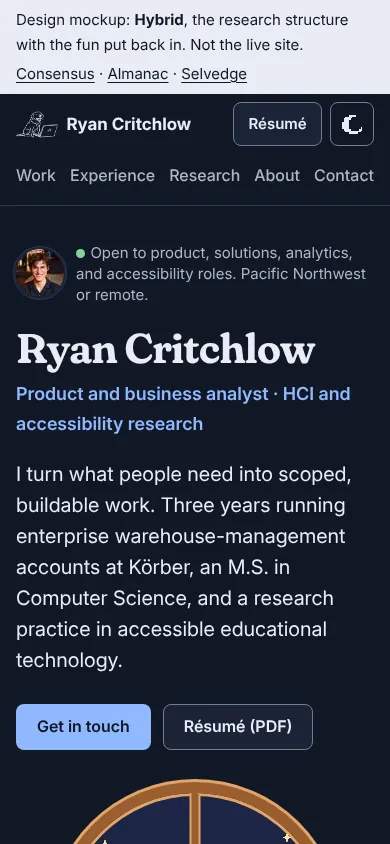
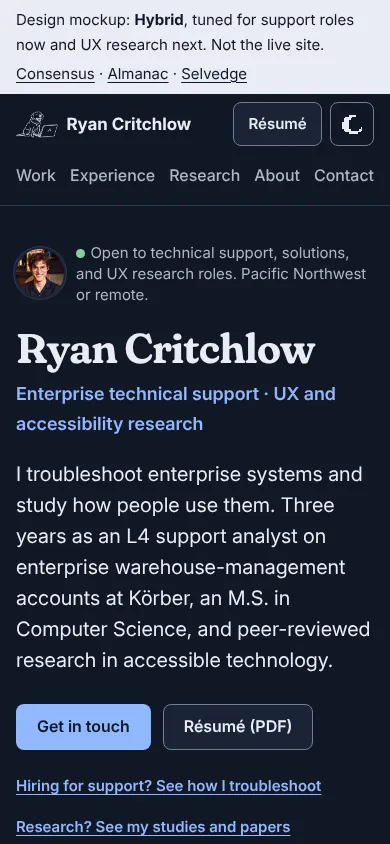
Tune Hybrid for a support role now and UX research next
The owner is aiming for a technical support engineer role at
Salesforce, then UX research, with a PhD as the fallback.

- Hero leads with enterprise technical support and links two paths:
  support work and research
- Proof boxes swap the onboarding stat for two on-site go-lives
- First case study: Körber L4 support (fault isolation across
  systems, escalation with evidence, deadlocks resolved)
- Research section gains a research-interests line and the methods used
- Footer carries a one-line accessibility statement
- README explains the tuning and the steps outside the site
  (Salesforce Administrator certification, the accessibility bridge,
  You and I case study, academic CV)

Every check still passes.

Claude-Session: https://claude.ai/code/session_017wxvTpqv5zxqmQFdE1sULf

diff --git a/docs/design-review/mockups/hybrid.html b/docs/design-review/mockups/hybrid.html
@@ -581,6 +581,18 @@
 				font-size: 1.25rem;
 				line-height: 1.55;
 			}
+			.paths {
+				display: flex;
+				flex-wrap: wrap;
+				gap: 0.4rem 1.5rem;
+				margin-top: 1.25rem;
+				font-size: var(--step-small);
+				font-weight: 600;
+			}
+			.paths a {
+				display: inline-block;
+				padding-block: 0.3rem;
+			}
 			.cta-row {
 				display: flex;
 				flex-wrap: wrap;
@@ -1172,6 +1184,13 @@
 				color: var(--ink);
 				font-weight: 600;
 			}
+			.methods {
+				margin-bottom: 1.75rem;
+			}
+			.methods li {
+				background: var(--card);
+				border: 1px solid var(--border);
+			}
 			.ids {
 				display: flex;
 				flex-wrap: wrap;
@@ -1383,6 +1402,11 @@
 					d="M1 0h10v1h-10zM0 1h11v1h-11zM1 2h10v1h-10zM5 3h3v1h-3zM5 4h3v1h-3zM5 5h3v1h-3zM5 6h3v1h-3zM5 7h3v1h-3zM5 8h3v1h-3zM4 9h5v1h-5z"
 				/>
 			</symbol>
+			<symbol id="i-magnifier" viewBox="0 0 12 12">
+				<path
+					d="M2 0h4v1h-4zM1 1h1v1h-1zM6 1h1v1h-1zM0 2h1v1h-1zM3 2h2v1h-2zM7 2h1v1h-1zM0 3h1v1h-1zM2 3h1v1h-1zM7 3h1v1h-1zM0 4h1v1h-1zM7 4h1v1h-1zM0 5h1v1h-1zM7 5h1v1h-1zM1 6h1v1h-1zM6 6h1v1h-1zM2 7h6v1h-6zM7 8h3v1h-3zM8 9h3v1h-3zM9 10h3v1h-3zM10 11h2v1h-2z"
+				/>
+			</symbol>
 			<symbol id="i-sun" viewBox="0 0 12 12">
 				<path
 					d="M5 0h2v1h-2zM1 1h1v1h-1zM5 1h2v1h-2zM10 1h1v1h-1zM2 2h1v1h-1zM9 2h1v1h-1zM4 3h4v1h-4zM3 4h6v1h-6zM0 5h2v1h-2zM3 5h6v1h-6zM10 5h2v1h-2zM0 6h2v1h-2zM3 6h6v1h-6zM10 6h2v1h-2zM3 7h6v1h-6zM4 8h4v1h-4zM2 9h1v1h-1zM9 9h1v1h-1zM1 10h1v1h-1zM5 10h2v1h-2zM10 10h1v1h-1zM5 11h2v1h-2z"
@@ -1415,7 +1439,7 @@
 		<aside class="mock-banner" aria-label="About this mockup">
 			<div class="wrap">
 				<p>
-					Design mockup: <strong>Hybrid</strong>, the research structure with the fun put back in.
+					Design mockup: <strong>Hybrid</strong>, tuned for support roles now and UX research next.
 					Not the live site.
 				</p>
 				<p>
@@ -1474,16 +1498,16 @@
 								fetchpriority="high"
 							/>
 							<span
-								><span class="dot" aria-hidden="true"></span>Open to product, solutions, analytics,
-								and accessibility roles. Pacific Northwest or remote.</span
+								><span class="dot" aria-hidden="true"></span>Open to technical support, solutions,
+								and UX research roles. Pacific Northwest or remote.</span
 							>
 						</p>
 						<h1 id="hero-title">Ryan Critchlow</h1>
-						<p class="role">Product and business analyst · HCI and accessibility research</p>
+						<p class="role">Enterprise technical support · UX and accessibility research</p>
 						<p class="lede measure">
-							I turn what people need into scoped, buildable work. Three years running enterprise
-							warehouse-management accounts at Körber, an M.S. in Computer Science, and a research
-							practice in accessible educational technology.
+							I troubleshoot enterprise systems and study how people use them. Three years as an L4
+							support analyst on enterprise warehouse-management accounts at Körber, an M.S. in
+							Computer Science, and peer-reviewed research in accessible technology.
 						</p>
 						<div class="cta-row">
 							<a class="btn btn-primary" href="#contact">Get in touch</a>
@@ -1491,6 +1515,10 @@
 								>Résumé (PDF)</a
 							>
 						</div>
+						<p class="paths">
+							<a href="#support">Hiring for support? See how I troubleshoot</a>
+							<a href="#research">Research? See my studies and papers</a>
+						</p>
 					</div>
 
 					<div class="window-wrap" id="georgia-spot">
@@ -1580,8 +1608,8 @@
 							</li>
 							<li class="box" style="--i: 2">
 								<div class="ship-label">
-									<span class="num">50%</span>
-									<span class="what">shorter new-hire ramp from a 30/60/90 framework I co-led</span>
+									<span class="num">2</span>
+									<span class="what">go-lives where I was the on-site technical lead</span>
 									<span class="barcode" aria-hidden="true"></span>
 								</div>
 							</li>
@@ -1608,39 +1636,46 @@
 						<p>Each project: the problem, what I did, and what came out of it.</p>
 					</div>
 					<ul class="cases">
-						<li class="case">
+						<li class="case" id="support">
 							<div class="case-top">
 								<span class="item"
-									><svg class="pix" viewBox="0 0 16 9" aria-hidden="true">
-										<use href="#i-controller" /></svg
+									><svg class="pix" viewBox="0 0 12 12" aria-hidden="true">
+										<use href="#i-magnifier" /></svg
 								></span>
-								<h3>You and I</h3>
+								<h3>Enterprise WMS support at Körber</h3>
 							</div>
 							<p class="summary">
-								A serious game for practicing pronouns, built with autistic children and their
-								families.
+								L4 support for four enterprise warehouse-management accounts, from cloud outages to
+								SQL deadlocks.
 							</p>
 							<dl class="facts">
 								<div>
 									<dt>Problem</dt>
-									<dd>Autistic gestalt language learners need a way to practice pronouns.</dd>
+									<dd>
+										A fault could start in the WMS, the customer's order system, Dynamics 365, or
+										their network.
+									</dd>
 								</div>
 								<div>
 									<dt>Role</dt>
-									<dd>Owned it end to end: research plan, Unity build, art, and evaluation.</dd>
+									<dd>
+										Primary technical contact. Isolated faults with WMS data and escalated to the
+										right team with the evidence.
+									</dd>
 								</div>
 								<div>
 									<dt>Result</dt>
 									<dd>
-										In-home participatory evaluation with four families; paper targeting IDC 2027.
+										Deadlocks resolved on high-traffic systems, and 46% more stable releases than
+										the department average.
 									</dd>
 								</div>
 							</dl>
 							<ul class="tags" aria-label="Tools">
-								<li>Unity</li>
-								<li>C#</li>
-								<li>WebGL</li>
-								<li>2025–2026</li>
+								<li>T-SQL</li>
+								<li>SQL Server Agent</li>
+								<li>Dynamics 365</li>
+								<li>2020–2023</li>
 							</ul>
 						</li>
 						<li class="case">
@@ -1685,6 +1720,41 @@
 						<li class="case">
 							<div class="case-top">
 								<span class="item"
+									><svg class="pix" viewBox="0 0 16 9" aria-hidden="true">
+										<use href="#i-controller" /></svg
+								></span>
+								<h3>You and I</h3>
+							</div>
+							<p class="summary">
+								A serious game for practicing pronouns, built with autistic children and their
+								families.
+							</p>
+							<dl class="facts">
+								<div>
+									<dt>Problem</dt>
+									<dd>Autistic gestalt language learners need a way to practice pronouns.</dd>
+								</div>
+								<div>
+									<dt>Role</dt>
+									<dd>Owned it end to end: research plan, Unity build, art, and evaluation.</dd>
+								</div>
+								<div>
+									<dt>Result</dt>
+									<dd>
+										In-home participatory evaluation with four families; paper targeting IDC 2027.
+									</dd>
+								</div>
+							</dl>
+							<ul class="tags" aria-label="Tools">
+								<li>Unity</li>
+								<li>C#</li>
+								<li>WebGL</li>
+								<li>2025–2026</li>
+							</ul>
+						</li>
+						<li class="case">
+							<div class="case-top">
+								<span class="item"
 									><svg class="pix" viewBox="0 0 16 10" aria-hidden="true">
 										<use href="#i-book" /></svg
 								></span>
@@ -1710,35 +1780,6 @@
 								<li>2025</li>
 							</ul>
 							<a class="case-link" href="https://thekindlab.github.io/">thekindlab.github.io</a>
-						</li>
-						<li class="case">
-							<div class="case-top">
-								<span class="item"
-									><svg class="pix" viewBox="0 0 16 10" aria-hidden="true">
-										<use href="#i-hammer" /></svg
-								></span>
-								<h3>Atlas Northwest</h3>
-							</div>
-							<p class="summary">Content and structure for a worker-owned woodshop's website.</p>
-							<dl class="facts">
-								<div>
-									<dt>Problem</dt>
-									<dd>The shop's website needed someone to own its content and structure.</dd>
-								</div>
-								<div>
-									<dt>Role</dt>
-									<dd>Took over the site's content and structure.</dd>
-								</div>
-								<div>
-									<dt>Result</dt>
-									<dd>The shop's restoration and millwork portfolio, presented online.</dd>
-								</div>
-							</dl>
-							<ul class="tags" aria-label="Tools">
-								<li>Squarespace</li>
-								<li>2026</li>
-							</ul>
-							<a class="case-link" href="https://atlasnorthwest.com">atlasnorthwest.com</a>
 						</li>
 					</ul>
 				</div>
@@ -1888,10 +1929,19 @@
 					<div class="section-head">
 						<h2 id="research-title">Research</h2>
 						<p>
-							Accessibility and participatory design, with the KIND Lab at Western Washington
-							University.
+							I study how to design technology with the people who will use it: accessible
+							educational technology, participatory design with neurodivergent children, and
+							disability in computing education. KIND Lab, Western Washington University.
 						</p>
 					</div>
+					<ul class="tags methods" aria-label="Research methods I've used">
+						<li>In-home participatory evaluation</li>
+						<li>Semi-structured interviews</li>
+						<li>Survey and instrument design</li>
+						<li>Inductive thematic analysis</li>
+						<li>Video coding</li>
+						<li>Systematic literature coding</li>
+					</ul>
 					<ol class="pubs measure">
 						<li class="pub">
 							<p class="status">Peer-reviewed</p>
@@ -1990,16 +2040,17 @@
 					</div>
 					<div class="toolbox">
 						<div>
-							<h3>Product and research</h3>
+							<h3>Support and research</h3>
 							<ul class="tags">
-								<li>Requirements</li>
+								<li>Fault isolation</li>
+								<li>Escalation management</li>
+								<li>SQL performance tuning</li>
+								<li>Knowledge base writing</li>
+								<li>Go-live support</li>
 								<li>Stakeholder management</li>
-								<li>Prioritization</li>
-								<li>Change control</li>
+								<li>Requirements</li>
 								<li>User interviews</li>
-								<li>Survey design</li>
 								<li>Thematic analysis</li>
-								<li>Participatory design</li>
 								<li>WCAG 2.2</li>
 							</ul>
 						</div>
@@ -2012,8 +2063,9 @@
 								<li>Power BI</li>
 								<li>Tableau</li>
 								<li>C#</li>
-								<li>Unity</li>
+								<li>Java</li>
 								<li>JavaScript</li>
+								<li>Unity</li>
 								<li>Svelte</li>
 								<li>Git</li>
 							</ul>
@@ -2041,8 +2093,8 @@
 					<div class="contact">
 						<h2 id="contact-title">Let's talk</h2>
 						<p class="measure">
-							Open to product, solutions, analytics, and accessibility roles in the Pacific
-							Northwest or remote.
+							Open to technical support, solutions, and UX research roles in the Pacific Northwest
+							or remote.
 						</p>
 						<div class="email-row">
 							<a class="email" id="email" href="mailto:critchlow.rc@gmail.com"
@@ -2070,8 +2122,11 @@
 
 		<footer class="site-footer">
 			<div class="wrap">
-				<span class="dog-mark" aria-hidden="true"></span>© 2026 Ryan Critchlow · Bellingham,
-				Washington
+				<span class="dog-mark" aria-hidden="true"></span>
+				<p>
+					© 2026 Ryan Critchlow · Bellingham, Washington. This site meets WCAG 2.2 AA, tested with
+					axe-core, keyboard and Windows High Contrast walks, and reduced-motion checks.
+				</p>
 			</div>
 		</footer>
 

diff --git a/docs/design-review/04-accessibility-results.md b/docs/design-review/04-accessibility-results.md
@@ -48,19 +48,19 @@ Final run on 2026-10-13, served locally from `docs/design-review/`. All four moc
 | ------------------------------------------------ | ------------------------------------ | ----------------------- | ----------------------- | --------------------------------------------------------------------- |
 | axe WCAG violations, 4 modes                     | 0                                    | 0                       | 0                       | 0                                                                     |
 | axe best-practice findings                       | 0                                    | 0                       | 0                       | 0                                                                     |
-| Text on illustrations or overlaps, pixel-sampled | 7–9 nodes, lowest 5.87:1             | none to sample          | 5 nodes, lowest 13.19:1 | 73–82 nodes, lowest 4.94:1 (4 decorative `aria-hidden` nodes skipped) |
+| Text on illustrations or overlaps, pixel-sampled | 8–9 nodes, lowest 5.87:1             | none to sample          | 5 nodes, lowest 13.19:1 | 73–82 nodes, lowest 4.94:1 (4 decorative `aria-hidden` nodes skipped) |
 | Skip link while focused                          | Passes                               | Passes                  | Passes                  | Passes                                                                |
-| Keyboard walk                                    | 32 stops, all visible, none obscured | 29 stops, all visible   | 28 stops, all visible   | 28 stops, all visible                                                 |
+| Keyboard walk                                    | 33 stops, all visible, none obscured | 29 stops, all visible   | 28 stops, all visible   | 28 stops, all visible                                                 |
 | Forced colors                                    | Every stop keeps a ring              | Every stop keeps a ring | Every stop keeps a ring | Every stop keeps a ring                                               |
 | Reflow at 320 px, text spacing                   | Pass                                 | Pass                    | Pass                    | Pass                                                                  |
 | Motion under reduced motion                      | None                                 | None                    | None                    | None                                                                  |
 | Token pairs (`palettes.json`)                    | 52 pass                              | 37 pass                 | 53 pass                 | 63 pass                                                               |
-| Lighthouse a11y · perf · best practices · SEO    | 100 · 82 · 96 · 100                  | 100 · 92 · 96 · 100     | 100 · 83 · 96 · 100     | 100 · 87 · 96 · 100                                                   |
-| LCP, CLS                                         | 3.5 s, 0                             | 2.7 s, 0                | 3.3 s, 0                | 2.9 s, 0                                                              |
+| Lighthouse a11y · perf · best practices · SEO    | 100 · 79 · 96 · 100                  | 100 · 92 · 96 · 100     | 100 · 83 · 96 · 100     | 100 · 87 · 96 · 100                                                   |
+| LCP, CLS                                         | 3.8 s, 0                             | 2.7 s, 0                | 3.3 s, 0                | 2.9 s, 0                                                              |
 
 Notes:
 
-- **The mockups load Google Fonts from another origin.** That blocks rendering and accounts for most of the LCP under Lighthouse's slow-4G simulation, and it's why best practices is 96 rather than 100. Hybrid loads two families, so it's slowest. The real site self-hosts its fonts through Fontsource, which avoids this.
+- **The mockups load Google Fonts from another origin.** That blocks rendering and accounts for most of the LCP under Lighthouse's slow-4G simulation, and it's why best practices is 96 rather than 100. Hybrid loads two families, so it's slowest (scores vary a few points between runs). The real site self-hosts its fonts through Fontsource, which avoids this.
 - **The Hybrid conveyor belt was tested on its own.** I recorded box positions frame by frame:
   - The boxes start off the belt on the very first frame, so they never flash.
   - They arrive together as one train and stop after 1.6 s.

diff --git a/docs/design-review/README.md b/docs/design-review/README.md
@@ -66,6 +66,25 @@ Hybrid keeps everything that makes the page easy to read, and adds back the part
 
 **What the research says about your tastes** (01c, last section): brown and olive are the _least_-liked colors in the main preference studies. The evidence for arches is real but modest, and it was measured on shapes, not page layouts. Neither is a reason to drop them. They are taste rather than evidence, so Hybrid keeps them to small decorative moments.
 
+### Who Hybrid is tuned for
+
+You're aiming for a technical support engineer role at Salesforce now, then a move into UX research, with a PhD as the fallback. One page has to serve all three, so Hybrid leads with the job you're applying for and gives researchers a second path:
+
+- **Hero:** "Enterprise technical support · UX and accessibility research", with two links under the buttons: _Hiring for support? See how I troubleshoot_ and _Research? See my studies and papers_.
+- **Proof boxes:** 4 enterprise accounts, 46% more stable releases, 2 go-lives as on-site technical lead, the ASSETS paper.
+- **First case study: Enterprise WMS support at Körber.** It covers fault isolation across the WMS, order system, Dynamics 365 and network, escalation with evidence, and deadlocks resolved. Salesforce TSE postings ask for exactly this: 2+ years of technical support, SQL, debugging and log reading, and explaining technical issues to non-technical people.
+- **Research section:** a research-interests sentence and the methods you've used (participatory evaluation, interviews, instrument design, thematic analysis, video coding, literature coding). This is UX research language that also reads well to PhD advisors.
+- **Footer:** a one-line accessibility statement. For an accessibility researcher, a demonstrably accessible site is evidence in itself.
+
+Steps that live outside the website:
+
+1. **Get the Salesforce Certified Administrator credential** (Trailhead is free). TSE postings list it as preferred, along with familiarity with Sales Cloud or Service Cloud.
+2. **Look at Salesforce's Accessibility Support Team and Office of Accessibility.** That's where support meets accessibility, a natural bridge from a TSE role toward research. Salesforce also runs accessibility user research with Fable.
+3. **Restore the _You and I_ case study** before you contact any research team or PhD advisor. It's your strongest research evidence.
+4. **Keep an academic CV and a Google Scholar profile** ready for the PhD path; link them from the Research section when they exist.
+
+Sources for the Salesforce points: TSE listings reposted on [purpose.jobs](https://www.purpose.jobs/discover/companies/salesforce-2/jobs/90254713-technical-support-engineer) and [jobs.accel.com](https://jobs.accel.com/companies/airkit-2/jobs/84486793-technical-support-engineer-sales-cloud) (check the official posting before applying); [Salesforce Accessibility Support Team](https://catherwood.library.cornell.edu/wit/salesforce-introduces-new-product-accessibility-support-team/); [Fable on Salesforce's accessibility research](https://makeitfable.com/article/how-salesforce-shapes-ai-ux-design/).
+
 ## What the review found about the current site
 
 - **The foundation is good.** It's a prerendered static site with clean Svelte 5 code, a semantic token layer with contrast notes, and real accessibility basics. Keep all of that.
@@ -111,7 +130,7 @@ Details are in [03 §4](03-cross-reference.md#4-proposals-to-the-owner) and [01c
 ## Decisions I need from you
 
 1. **Direction:** Hybrid (my pick), Consensus, Almanac, or Selvedge? You can also mix and match pieces.
-2. **Positioning line:** "Product and business analyst · HCI and accessibility research" (used in Consensus and Hybrid), or keep "Product · Research · Enterprise Systems"?
+2. **Positioning line:** Hybrid now uses "Enterprise technical support · UX and accessibility research" for the Salesforce path. Does that read right to you?
 3. **Simulator:** move it to its own page (recommended), or cut it?
 4. **Photos:** can you send a headshot that's 800 px or larger? The current one is 325 px and looks soft on phones.
 
